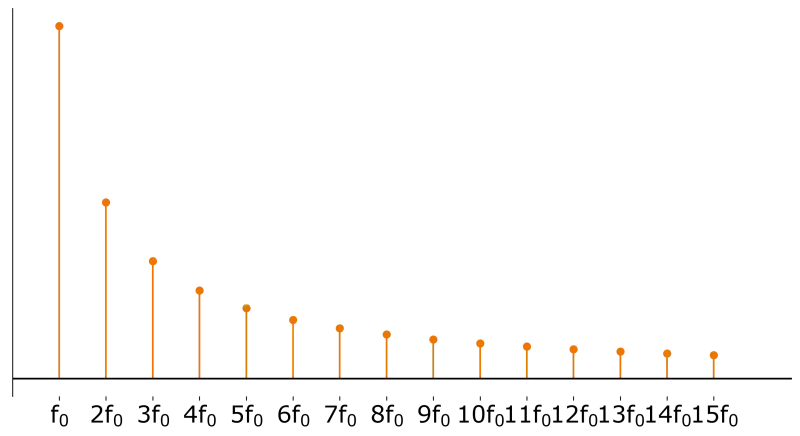
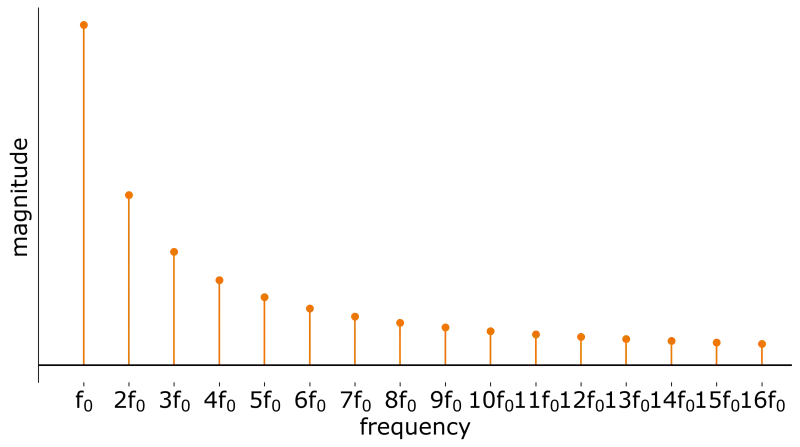
Posts: Waveforms.

diff --git a/_py/posts/synthesis/2022-06-26-sine-saw-square-triangle-basic-waveforms-in-synthesis/main.py b/_py/posts/synthesis/2022-06-26-sine-saw-square-triangle-basic-waveforms-in-synthesis/main.py
@@ -53,6 +53,8 @@ def plot_signal_impl(waveform):
     plt.yticks([-1, 0, 1])
     plt.xticks([])
     plt.xlim([0, samples_count])
+    plt.xlabel('time')
+    plt.ylabel('amplitude')
     ax = plt.gca()
     ax.spines['top'].set_visible(False)
     ax.spines['right'].set_visible(False)
@@ -98,6 +100,8 @@ def plot_spectrum_impl(waveform):
     plt.xticks(multiplicities_of_fundamental, harmonics_names)
     plt.xlim([0, spectrum.shape[0]])
     plt.hlines(0, 0, spectrum.shape[0], colors='k')
+    plt.xlabel('frequency')
+    plt.ylabel('magnitude')
     ax = plt.gca()
     ax.spines['top'].set_visible(False)
     ax.spines['right'].set_visible(False)
@@ -202,7 +206,8 @@ def generate_pulse_video():
     ax[0].spines['top'].set_visible(False)
     ax[0].spines['right'].set_visible(False)
     ax[0].spines['bottom'].set_visible(False)
-    ax[0].set_xlabel('Time')
+    ax[0].set_xlabel('time')
+    ax[0].set_ylabel('amplitude')
 
     markerline, stemlines, baseline = ax[1].stem(harmonics, spectrum[harmonics_indices], **stem_params)
     plt.setp(markerline, 'color', color)
@@ -215,8 +220,11 @@ def generate_pulse_video():
     ax[1].spines['top'].set_visible(False)
     ax[1].spines['right'].set_visible(False)
     ax[1].spines['bottom'].set_visible(False)
-    ax[1].set_xlabel('Frequency')
-    plt.savefig(images_path / 'pulse_video0.png')
+    ax[1].set_xlabel('frequency')
+    ax[1].set_ylabel('magnitude')
+    thumbnail_path = images_path / 'duty_cycle_visualization_placeholder.png'
+    plt.savefig(thumbnail_path, bbox_inches='tight', dpi=200)
+    subprocess.run(['cwebp', '-q', '65', '-resize', '800', '0', thumbnail_path, '-o', thumbnail_path.with_suffix('.webp')])
 
     frames_count = 500
 
@@ -242,7 +250,8 @@ def generate_pulse_video():
         ax[0].spines['top'].set_visible(False)
         ax[0].spines['right'].set_visible(False)
         ax[0].spines['bottom'].set_visible(False)
-        ax[0].set_xlabel('Time')
+        ax[0].set_xlabel('time')
+        ax[0].set_ylabel('amplitude')
 
         markerline, stemlines, baseline = ax[1].stem(harmonics, spectrum[harmonics_indices], **stem_params)
         plt.setp(markerline, 'color', color)
@@ -255,7 +264,8 @@ def generate_pulse_video():
         ax[1].spines['top'].set_visible(False)
         ax[1].spines['right'].set_visible(False)
         ax[1].spines['bottom'].set_visible(False)
-        ax[1].set_xlabel('Frequency')
+        ax[1].set_xlabel('frequency')
+        ax[1].set_ylabel('magnitude')
 
         return markerline, stemlines, baseline
 
@@ -270,13 +280,13 @@ def main():
     ideal_waveforms = [np.sin, ideal_square, ideal_sawtooth_ramp_up, ideal_triangle, partial(pulse, duty_cycle=0.2, harmonics_count=1000)]
     waveform_names = ['sine', 'square', 'sawtooth', 'triangle', 'pulse']
 
-    # for waveform, waveform_name in zip(ideal_waveforms, waveform_names):
-        # plot_signal(waveform, waveform_name)
-    # for waveform, waveform_name in zip(waveforms, waveform_names):
-        # plot_spectrum(waveform, waveform_name)
+    for waveform, waveform_name in zip(ideal_waveforms, waveform_names):
+        plot_signal(waveform, waveform_name)
+    for waveform, waveform_name in zip(waveforms, waveform_names):
+        plot_spectrum(waveform, waveform_name)
         # generate_waveform(waveform, waveform_name)
 
-    # generate_pulse_video()
+    generate_pulse_video()
 
 
 if __name__ == '__main__':

diff --git a/_py/posts/synthesis/2022-07-03-envelopes/sine_adsr.py b/_py/posts/synthesis/2022-07-03-envelopes/sine_adsr.py
@@ -55,7 +55,6 @@ def main():
     plt.figure(figsize=(8,4))
     plt.plot(sine_enveloped_plot, grey, linewidth=1)
     plt.plot(envelope, color, linewidth=3)
-    plt.plot(-envelope, color, linewidth=3)
     a = plt.gca()
     a.spines['top'].set_visible(False)
     a.spines['right'].set_visible(False)
@@ -63,9 +62,14 @@ def main():
     plt.xticks([])
     plt.ylabel('amplitude')
     plt.xlabel('time')
+    output_path = images_path / 'sine_adsr_top.png'
+    plt.savefig(output_path, dpi=300, bbox_inches='tight')
+    subprocess.run(['cwebp', '-q', '65', '-resize', '800', '0', output_path, '-o', output_path.with_suffix('.webp')])
+    plt.plot(-envelope, color, linewidth=3)
     output_path = images_path / 'sine_adsr.png'
     plt.savefig(output_path, dpi=300, bbox_inches='tight')
     subprocess.run(['cwebp', '-q', '65', '-resize', '800', '0', output_path, '-o', output_path.with_suffix('.webp')])
+
     
     amplitude = 0.5
     signal_to_store = amplitude * sine_enveloped

diff --git a/_posts/synthesis/2022-06-26-sine-saw-square-triangle-pulse-basic-waveforms-in-synthesis.md b/_posts/synthesis/2022-06-26-sine-saw-square-triangle-pulse-basic-waveforms-in-synthesis.md
@@ -205,7 +205,7 @@ The pulse waveform with 20% duty cycle at 220 Hz sounds like this:
 
 The pulse wave could be generated in various ways. I used a Fourier series-based formula [Pluta2019]
 
-$$s(t) = (2D - 1) + \sum_{k=1}^{\infty} \frac{4}{k\pi} \sin (\pi k D) \cos (2 \pi k f_0 t - \pi k D), $$
+$$s(t) = (2D - 1) + \sum_{k=1}^{\infty} \frac{4}{k\pi} \sin (\pi k D) \cos (2 \pi k f_0 t - \pi k D), {% increment figureId20220626  %}$$
 
 where $D$ is the duty cycle, $k$ is the harmonic's index, $f_0$ is the fundamental frequency in Hz, and $t$ is time in seconds.
 
